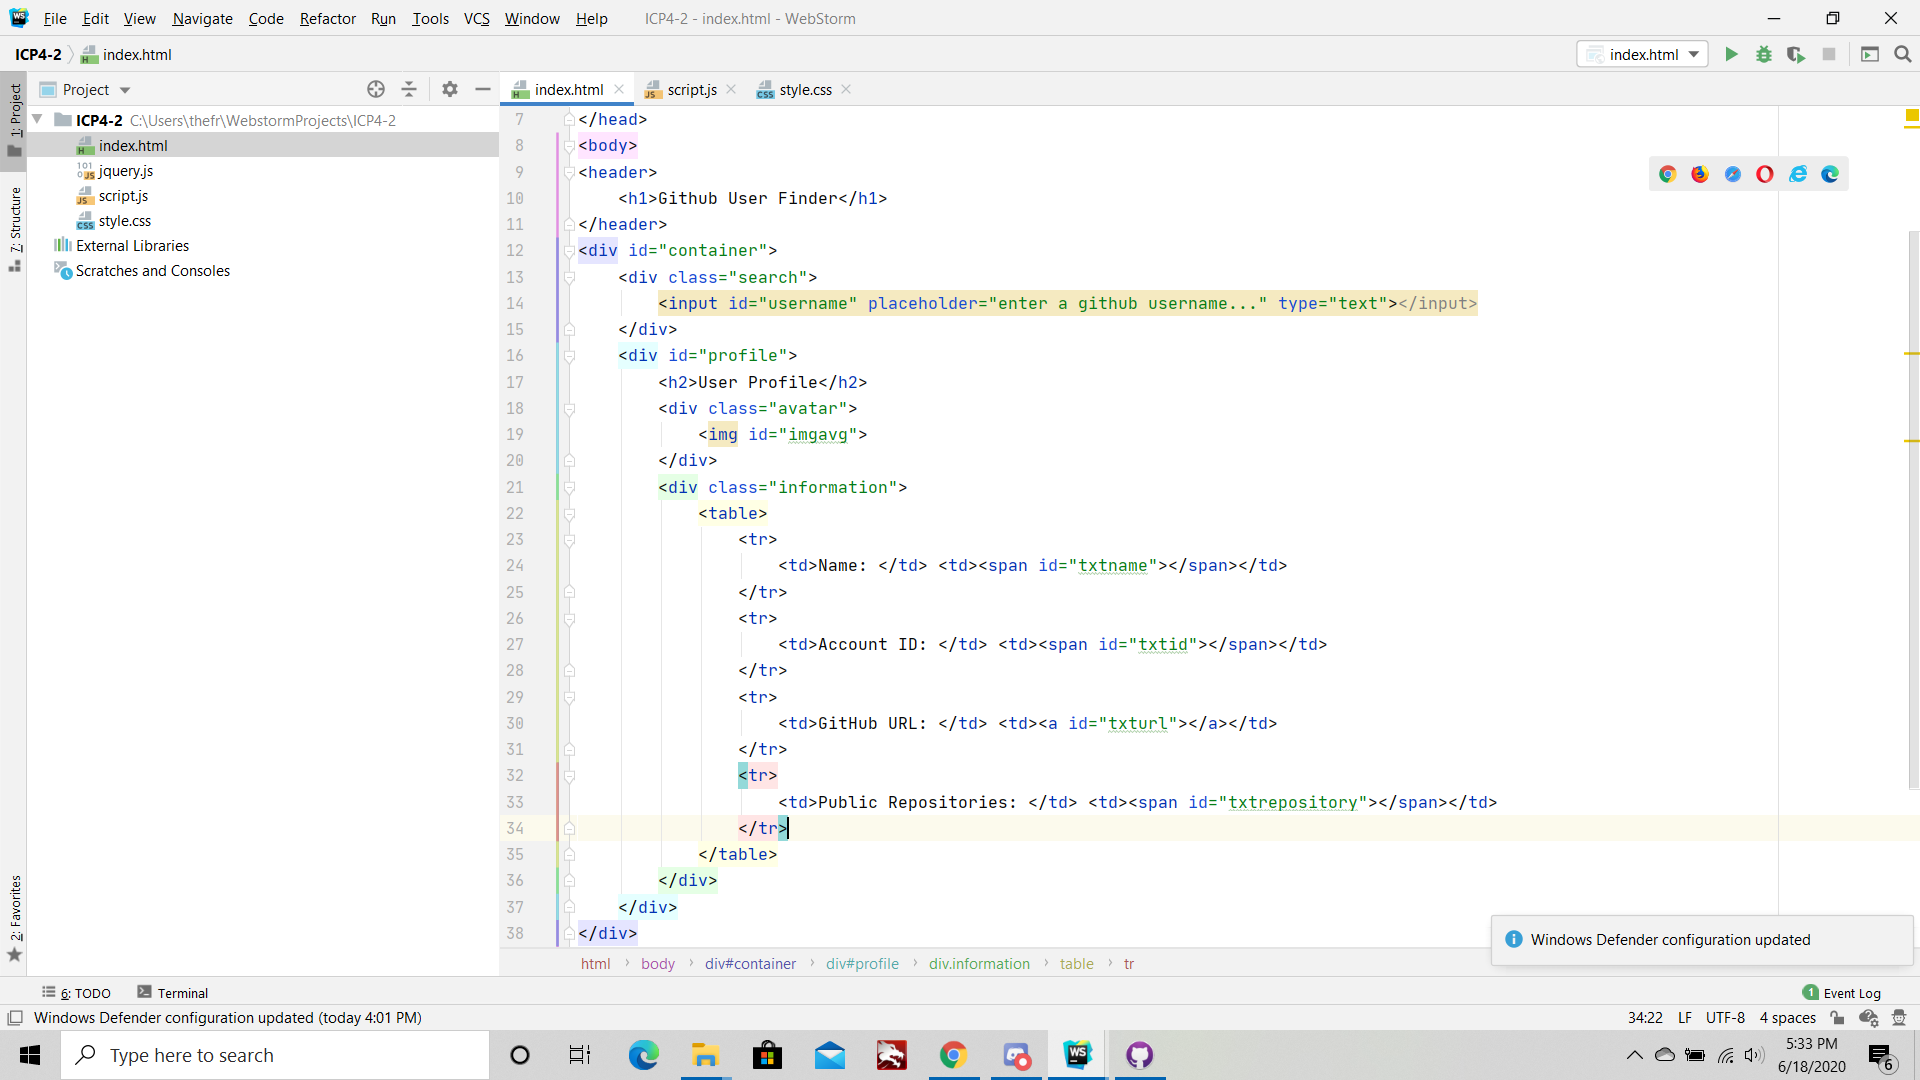
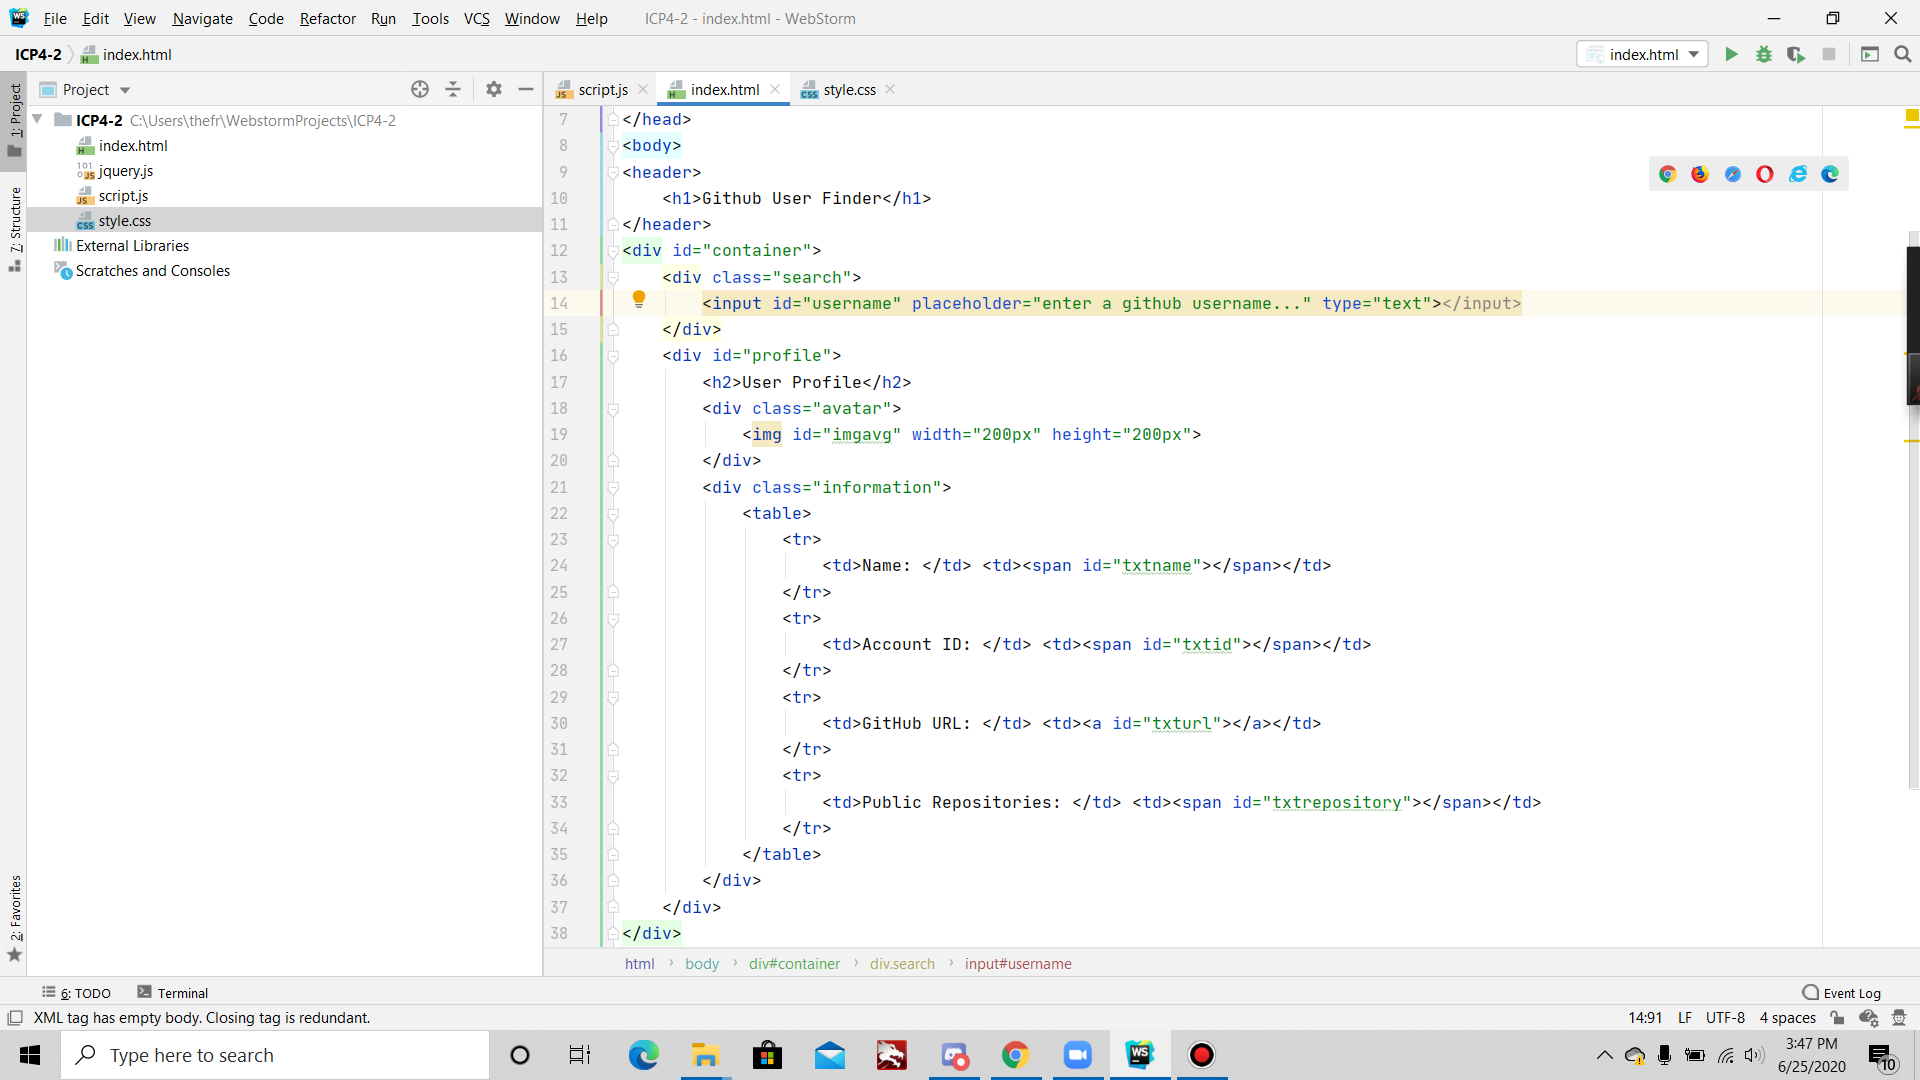
update ICP4-2

diff --git a/ICP4/ICP4-2/script.js b/ICP4/ICP4-2/script.js
@@ -1,39 +1,37 @@
-function getGithubInfo(user) {
+function getGithubInfo(username) {
     //1. Create an instance of XMLHttpRequest class and send a GET request using it.
     // The function should finally return the object(it now contains the response!)
-    var username='https://api.github.com/users/'+user;
-    console.log(username);
+    var userAPI ='https://api.github.com/users/'+username;
+    console.log(userAPI);
     $.ajax({
         type: "GET",
-        url: username,
+        url: userAPI,
         dataType: 'json',
-        //if the response is successful show the user's details
+
     }).done(function(data){
-        showUser(data);
+        showUserInfo(data);
 
     }).fail(function(){
-        console.log("Some error Happened");
-        noSuchUser(user);
+        console.log("Error");
+        noSuchUser(username);
     });
+
 }
 
-function showUser(user) {
+function showUserInfo(userAPIdata) {
     //2. set the contents of the h2 and the two div elements in the div '#profile' with the user content
-    document.getElementById('imgavg').src=user.avatar_url;
-    document.getElementById('txtname').innerText=user.name;
-    document.getElementById('txtid').innerText=user.id;
-    document.getElementById('txturl').href=user.html_url;
-    document.getElementById('txturl').innerText=user.html_url;
-    document.getElementById('txtrepository').innerText=user.public_repos;
+    $('#profile h2').html("User " + username + " Profile");
+    document.getElementById('imgavg').src=userAPIdata.avatar_url;
+    document.getElementById('txtname').innerText=userAPIdata.name;
+    document.getElementById('txtid').innerText=userAPIdata.id;
+    document.getElementById('txturl').href=userAPIdata.html_url;
+    document.getElementById('txturl').innerText=userAPIdata.html_url;
+    document.getElementById('txtrepository').innerText=userAPIdata.public_repos;
 }
-
 function noSuchUser(username) {
     //3. set the elements such that a suitable message is displayed
-    if (data.message == "Not Found" || username == '') {
-        alert("User not found");
-    }
+    $('#profile h2').html("No such User  " + username + " found");
 }
-
 $(document).ready(function () {
     $(document).on('keypress', '#username', function (e) {
         //check if the enter(i.e return) key is pressed
@@ -44,6 +42,8 @@ $(document).ready(function () {
             $(this).val("");
             //get the user's information and store the respsonse
             getGithubInfo(username);
+            //if the response is successful show the user's details
+
         }
     })
 });

diff --git a/ICP4/ICP4-2/style.css b/ICP4/ICP4-2/style.css
@@ -1,15 +1,15 @@
 body {
   font-family: Helvetica, Arial, sans-serif;
-  border-top: 5px solid #4c4066;
+  border-top: 5px solid darkolivegreen;
   margin: 0px auto;
   font-size: 14px;
-  color: #666666;
+  color: lightseagreen;
   font-size: 16px;
 }
 
 header {
   text-align: center;
-  background-color: #fdfdfd;
+  background-color: darkseagreen;
   border-bottom: 1px solid #e5e2e0;
 }
 
@@ -57,12 +57,12 @@ h2 {
   width: 150px;
   padding: 90px 30px 0;
   display: block;
-  background-color: purple;
+  background-color: greenyellow;
   text-decoration: none;
-  color: white;
+  color: black;
   font-width: bold;
 }
 
 .profile:hover {
-  background-color: #b300b3;
+  background-color: grey;
 }

diff --git a/ICP4/ICP4-2/index.html b/ICP4/ICP4-2/index.html
@@ -16,7 +16,7 @@
     <div id="profile">
         <h2>User Profile</h2>
         <div class="avatar">
-            <img id="imgavg">
+            <img id="imgavg" width="200px" height="200px">
         </div>
         <div class="information">
             <table>
